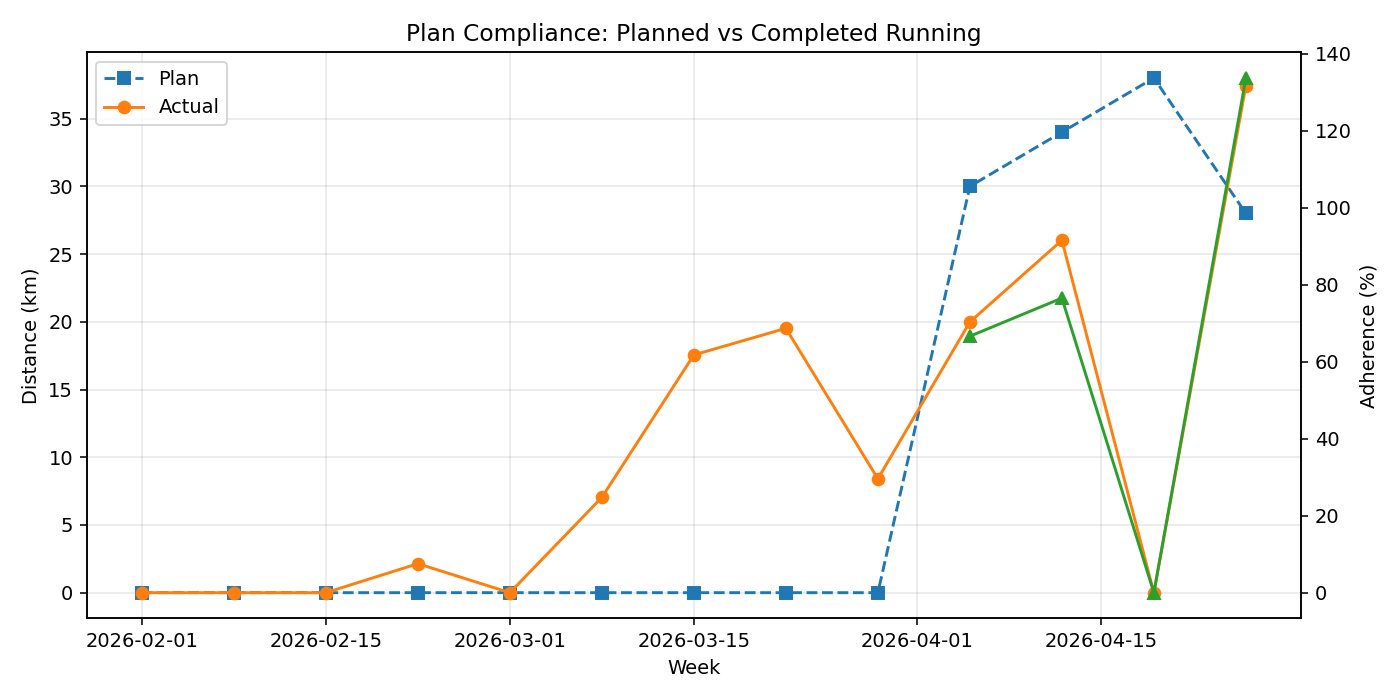
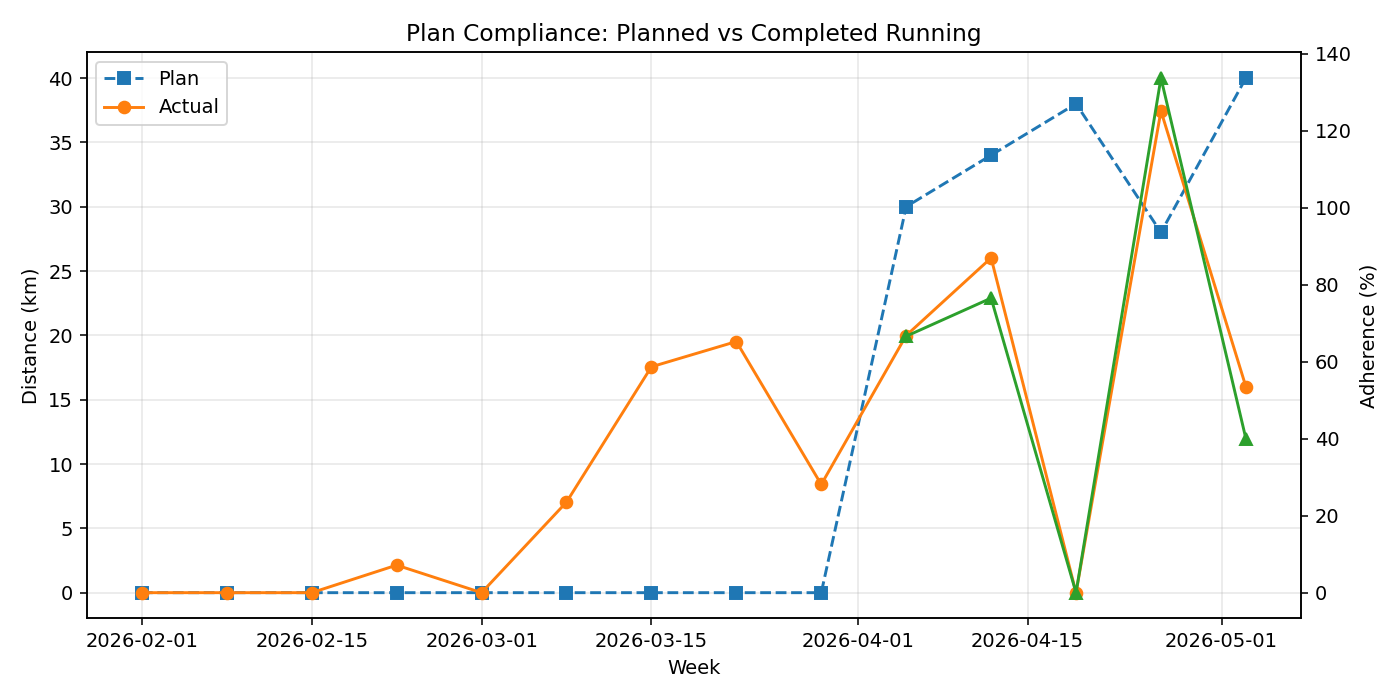
chore: update dashboard site (2026-05-03 02:08)

diff --git a/docs/data/report.md b/docs/data/report.md
@@ -1,63 +1,63 @@
 # Plan-aware Hybrid Marathon Analysis
-Window: 2026-02-01 -> 2026-04-29
+Window: 2026-02-01 -> 2026-05-03
 
 ## This Week
-- Plan week: 4.0
-- Phase: Base con fútbol - descarga
+- Plan week: 5.0
+- Phase: Base con fútbol
 - Planned sessions: 3
-- Completed sessions: 3
-- Running km vs target: 37.4 / 28.0
-- Long run status: done
+- Completed sessions: 1
+- Running km vs target: 16.0 / 40.0
+- Long run status: pending
 - Football status: estimated
-- Plan compliance score: 100.0
+- Plan compliance score: 57.7
 
 ## Running Progression
-- Rolling 7d running km: 21.1985
-- Rolling 28d running km: 83.4478
-- Run frequency last 7/14/28: 1/3/7
+- Rolling 7d running km: 16.0093
+- Rolling 28d running km: 79.4699
+- Run frequency last 7/14/28: 1/4/6
 - Easy pace trend (negative faster): 0.11674986680650262
-- Pace/HR efficiency trend: -0.00019443082586923644
+- Pace/HR efficiency trend: -0.00038800950201888407
 
 ## Durability
-- Consecutive weeks with 2+ runs: 1
-- Consecutive weeks with long run completed: 1
-- Long-run progression slope: 1.3048972527472527
-- Planned volume absorbed: 106.23707692307694
-- Planned long runs completed: 50.0
-- Weeks football likely forced downscale: 2
+- Consecutive weeks with 2+ runs: 0
+- Consecutive weeks with long run completed: 0
+- Long-run progression slope: 1.3170232967032969
+- Planned volume absorbed: 90.65735294117647
+- Planned long runs completed: 40.0
+- Weeks football likely forced downscale: 3
 
 ## Football Interference
 - Status: ok
 - Next-day pace delta: None
-- 48h pace delta: 0.13299954394174693
-- 72h pace delta: 0.15134034673846955
+- 48h pace delta: 0.033260498358178424
+- 72h pace delta: 0.05160130115490106
 
 ## Predictions
-- Next-week volume completion probability: 0.62
-- Next long-run completion probability: 0.41
-- Next quality completion probability: 0.59
-- Downscale probability: 0.69
+- Next-week volume completion probability: 0.60
+- Next long-run completion probability: 0.42
+- Next quality completion probability: 0.60
+- Downscale probability: 0.68
 
 ## Readiness
 - Aerobic fitness: declining
 - Durability: strong
-- Fatigue: medium
+- Fatigue: low
 - Marathon readiness: strong
 
 ## Marathon Estimate
-- Fitness-based: 03:40:28
-- Durability-adjusted: 03:51:23
+- Fitness-based: 03:54:23
+- Durability-adjusted: 04:06:23
 - Realistic range: 03:11:55 to 04:14:23
 - Confidence score: 80.0/100
 
 ## Pace Recommendations
-- Easy: 5.22-5.57 min/km
-- Steady: 4.87-5.07 min/km
-- Marathon pace: 5.26-5.41 min/km
-- Threshold: 4.96-5.11 min/km
+- Easy: 5.14-5.49 min/km
+- Steady: 4.79-4.99 min/km
+- Marathon pace: 5.50-5.65 min/km
+- Threshold: 5.20-5.35 min/km
 
 ## Confidence Notes
-- Confidence reduced because football actuals are missing for the last 31 days.
+- Confidence reduced because football actuals are missing for the last 35 days.
 
 ## Files generated
 - report.md
